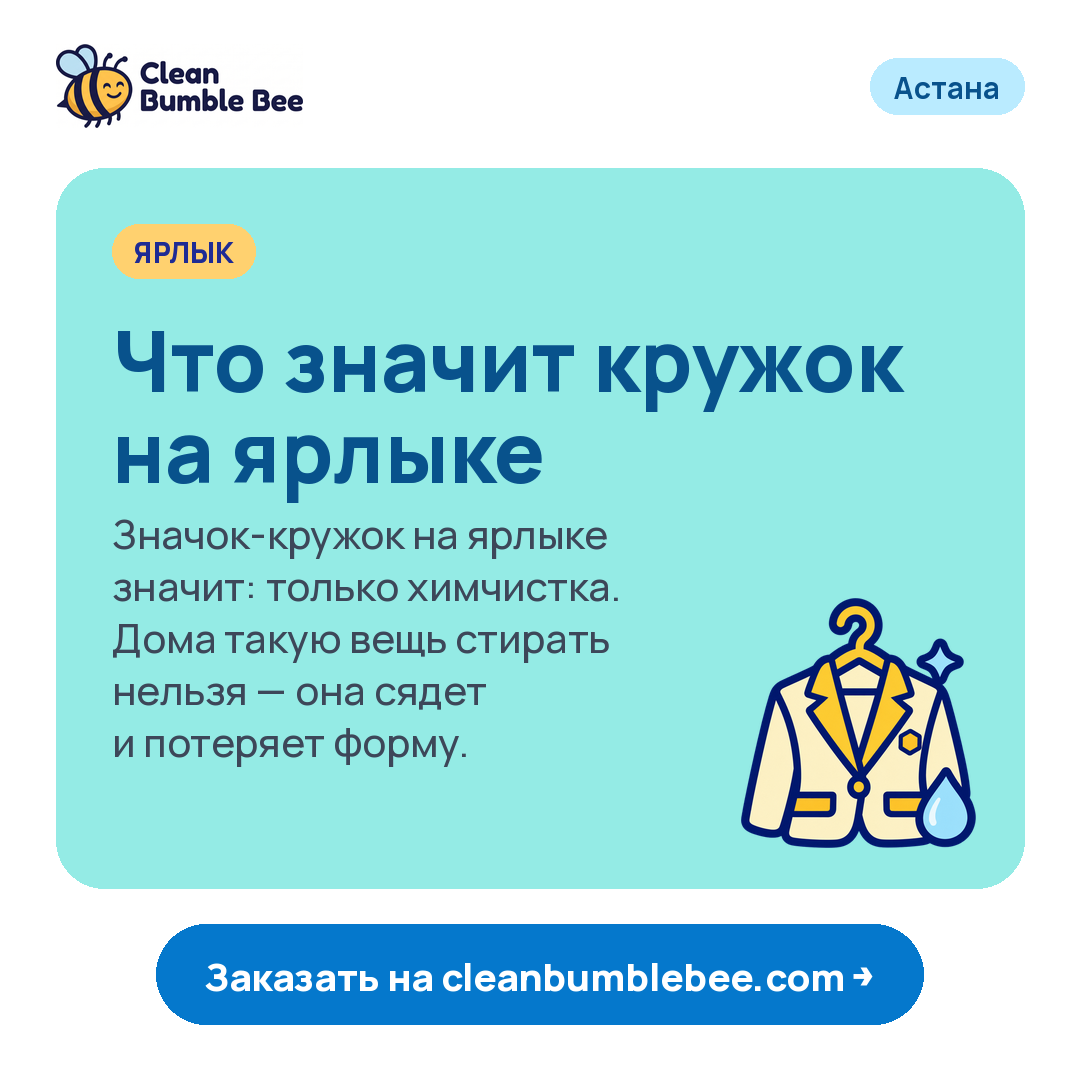
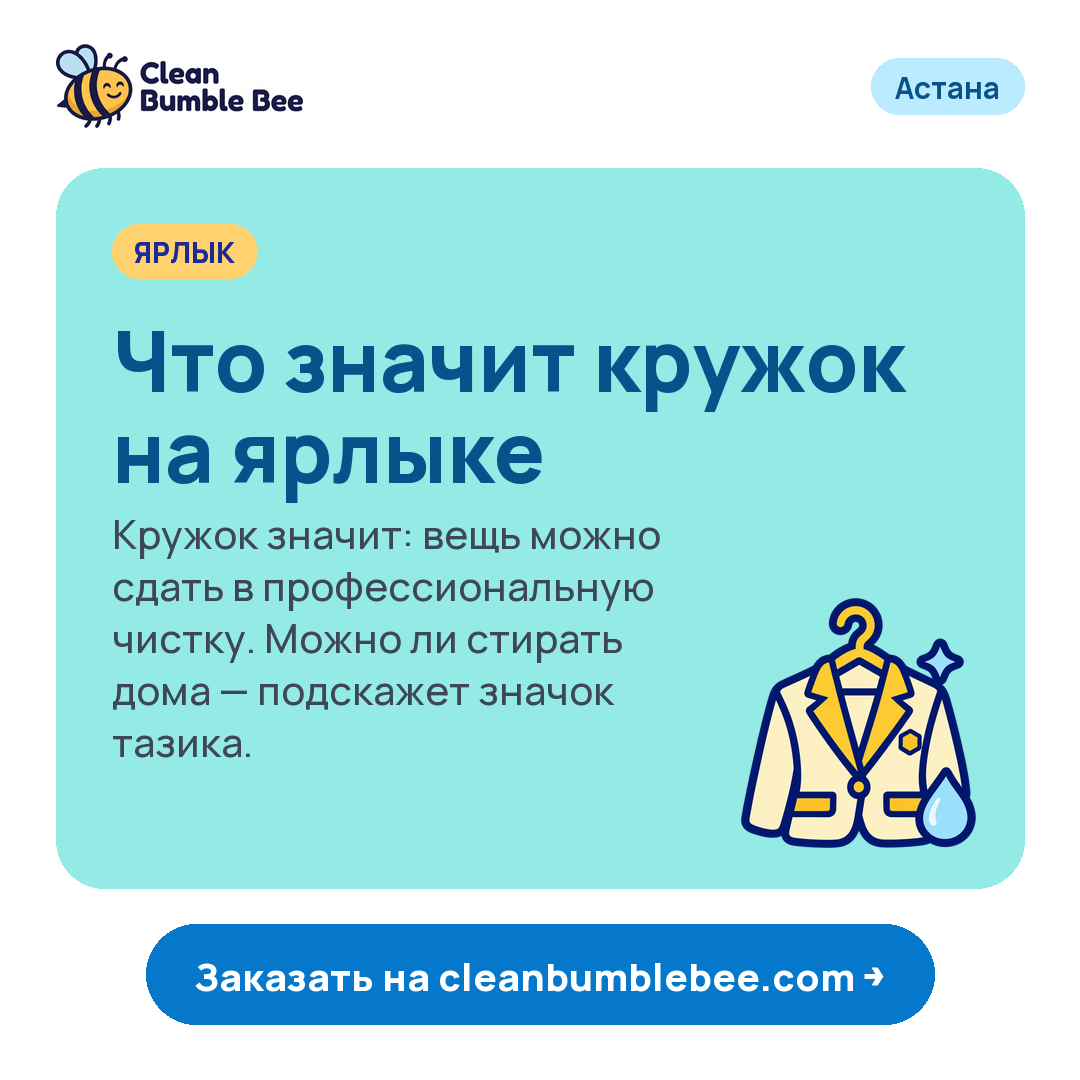
Fix 16-09 post b: circle symbol = professional cleaning allowed, not dry-clean-only; care-symbol rule in brand.md

diff --git a/MEMORY.md b/MEMORY.md
@@ -16,7 +16,8 @@
   - (2) FIXED 14-09-2026: Default cloud environment → Network access **Custom**, allowed `d8j0ntlcm91z4.cloudfront.net` + `cleanbumblebee.com`, "include default list" kept on (keeps the Trusted list; GitHub and MCP traffic bypass the allowlist anyway).
   - (1) FIXED 14-09-2026: Claude GitHub App installed (installation 161596437), repository access = only `clean-bee-instagram`. Bee did GitHub's email verification.
 - **14-09-2026 one-off test run (Bee's request):** target date forced to 16-09-2026 instead of tomorrow, everything else normal. First end-to-end proof from the cloud session: git push, Higgsfield fetch, cleanbumblebee.com fetch, raw GitHub 200 checks and Metricool scheduling all worked with no blockers — the (1)/(2) fixes above hold. Story rotation: all 7 days (15-09 → 21-09) already had their 5 slots each from the earlier by-hand scheduling — 0 added. Feed: 4 posts scheduled live for 16-09-2026 (Metricool ids 375585971, 375586019, 375586070, 375586096) — new ideas (coffee stain, care-label circle symbol, bag-code/photo/online-status transparency, coats+puffer before heating season), since the pillar ideas already used were 15-09's (30-day repeat rule). Heat map was still all zero → fallback times again. One redo: `layout fact` with a literal "○" character in `--sub` renders as a tofu box — the Manrope subsets have no glyph for it and there's no fallback face; describe it in words ("значок-кружок") instead of using the Unicode circle character.
-  - Next real (non-test) run is 15-09-2026 21:00 Astana, filling 17-09-2026 — check that run's log to confirm the fixes hold outside a one-off test too.
+  - Runs on 14-09 and 15-09 at 21:00 will find 15-09 / 16-09 already full and add no feed posts. First normal run that makes feed posts: **16-09-2026 21:00 → fills 17-09** — check that log.
+  - Fixed after the test: post b (16-09) said the circle symbol means "dry clean only, never wash at home" — wrong. Circle = professional cleaning allowed; home washing is the washtub symbol. Image + caption corrected and the Metricool post updated.
 
 ## Output
 - 1080×1080 PNG (guideline Instagram feed spec). Layouts `tips` / `fact` / `photo` in compose.py; official logo on top, Astana chip, Safe Blue CTA pill at the bottom.

diff --git a/posts/16-09-2026-b-care-label-symbols/caption.md b/posts/16-09-2026-b-care-label-symbols/caption.md
@@ -1,10 +1,10 @@
-Ярлык на одежде — это не формальность, а инструкция от производителя.
+Ярлык на одежде — это инструкция от производителя, а не формальность.
 
-Значок-кружок на ярлыке означает: вещь можно доверить только профессиональной химчистке — сухой или аквачистке. Дома такую вещь стирать нельзя: волокна дадут усадку, а форма и цвет пострадают.
+Значок-кружок означает, что вещь можно сдавать в профессиональную чистку — сухую или аквачистку. Буквы внутри кружка подсказывают мастеру, каким способом её чистить.
 
-Перед любой чисткой — домашней или профессиональной — всегда сверяйтесь с ярлыком. Это самый быстрый способ не испортить любимую вещь.
+А можно ли стирать вещь дома, показывает другой значок — тазик с водой. Если тазик перечёркнут, дома лучше не стирать: ткань может сесть или потерять форму.
 
-В нашей химчистке мастер сначала смотрит на ярлык и состав ткани, а потом подбирает обработку.
+В нашей химчистке мастер сначала смотрит на ярлык и состав ткани и только потом подбирает обработку.
 
 Оформите заказ за 60 секунд на cleanbumblebee.com — ссылка в профиле.
 

diff --git a/brand/brand.md b/brand/brand.md
@@ -54,6 +54,7 @@ Manrope only (`fonts/`). Headlines ExtraBold, body Medium/SemiBold.
 3. At the station items are inspected; the exact price comes as a Kaspi invoice; cleaning starts only after payment.
 4. Clean items come back in the chosen window; status is visible online.
 - Service area: Astana. Languages: Russian, Kazakh, English.
+- **Care advice must be textbook-correct.** Care-label symbols: washtub = home washing (crossed = don't wash at home); circle = professional cleaning allowed (letters inside tell the cleaner the method; crossed = no dry cleaning); square = tumble drying; triangle = bleaching; iron = ironing. Never say a symbol means "only" or "never" unless it's the crossed-out version. If unsure about a care fact, pick another topic.
 - **Numbers (turnaround hours, delivery fee, free-delivery threshold, prices) only if read from the live site in the same run.** The guideline PDF quotes numbers that are still changing — don't copy them.
 
 ## Services
